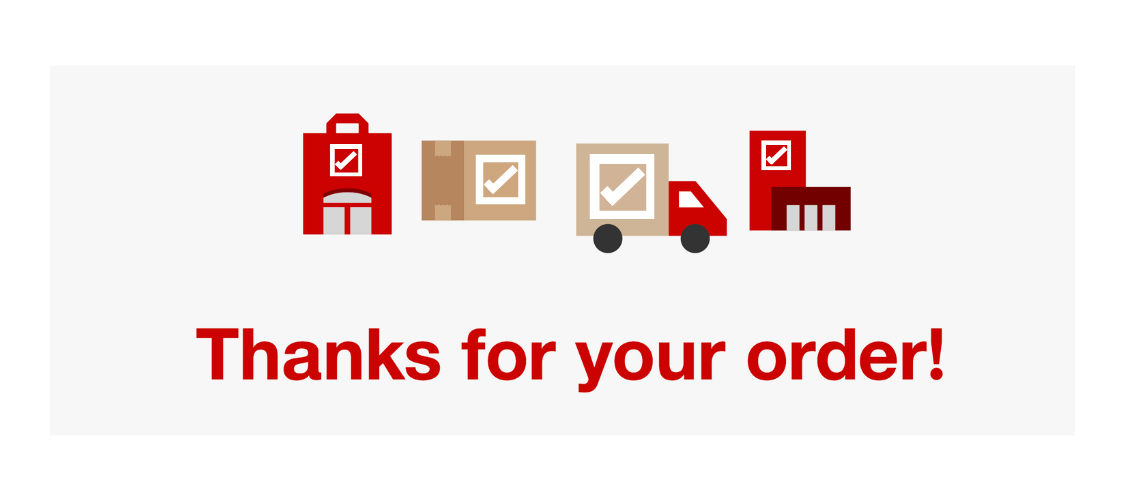
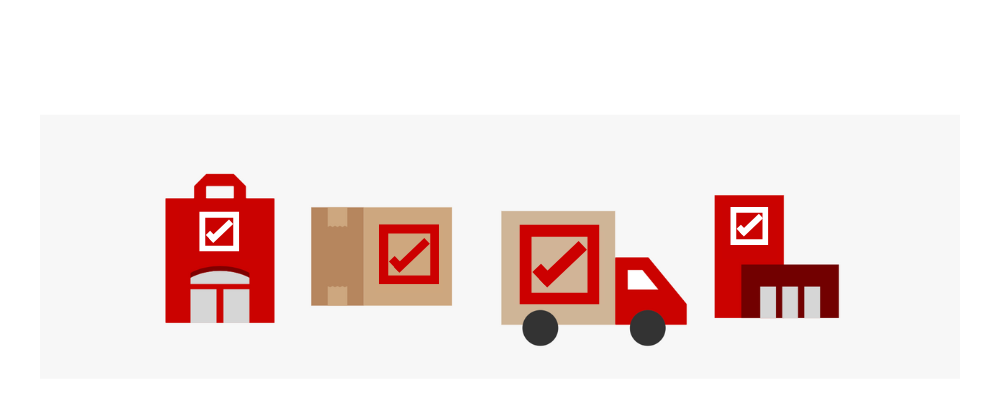
Images

Changed region(s): [[0.155, 0.21, 0.837, 0.87]]

diff --git a/frontend/src/components/Orders/OrderConfirmation/index.js b/frontend/src/components/Orders/OrderConfirmation/index.js
@@ -7,6 +7,9 @@ import { normalizeArray } from "../../../component-resources";
 import { thunkReadAllUserOrders } from "../../../store/ordersReducer";
 // local files
 import "./OrderConfirmation.css"
+import thanksImage from "../../../images/branding/market-order-confirmation-image.png";
+import buildingImage from "../../../images/branding/market-building-image.png";
+
 
 /******************************* COMPONENT *******************************/
 function OrderConfirmation() {
@@ -36,6 +39,7 @@ function OrderConfirmation() {
         <div id="OrderConfirmation-component">
 
             <div className="OrderConfirmation-title">
+              <img  src={thanksImage} id="thanksImage"></img>
               <h1>Thanks for your order!</h1>
               <p>We’ll send confirmations and order updates to <span>{user.email}</span></p>
             </div>
@@ -61,6 +65,9 @@ function OrderConfirmation() {
 
         <div className="OrderConfirmation-redirect-section">
           <div>
+            <div>
+              <img src={buildingImage} id="building-image"></img>
+            </div>
             <button
               className='OrderConfirmation-redirect-button'
               id='OrderConfirmation-redirect-button'

diff --git a/frontend/src/components/Cart/UserCart/index.js b/frontend/src/components/Cart/UserCart/index.js
@@ -6,6 +6,7 @@ import { Link, NavLink, Redirect, useParams } from "react-router-dom";
 // local files
 import cartReducer, { thunkReadCart, thunkRemoveSingleProductFromCart } from "../../../store/cartReducer";
 import RemoveFromCart from "../RemoveFromCart";
+import emptyCartImage from "../../../images/branding/market-empty-cart.png";
 import "./UserCart.css"
 
 /******************************* COMPONENT *******************************/

diff --git a/frontend/src/components/Orders/OrderConfirmation/OrderConfirmation.css b/frontend/src/components/Orders/OrderConfirmation/OrderConfirmation.css
@@ -38,6 +38,9 @@
 .OrderConfirmation-title > h1 {
     font-size: 29px;
     color: rgb(204, 0, 0);
+    padding-top: 0px;
+    margin-top: 0px;
+
 }
 .OrderConfirmation-title > p > span {
     font-weight: 700;
@@ -97,7 +100,9 @@
 }
 
 
-
+#building-image {
+    width: 80px
+}
 .OrderConfirmation-redirect-button-container {
     display: flex;
     flex-direction: column;

diff --git a/frontend/src/components/Reviews/ReviewCreateForm/ReviewCreateForm.css b/frontend/src/components/Reviews/ReviewCreateForm/ReviewCreateForm.css
@@ -55,6 +55,9 @@
     margin-bottom: 8px;
     padding-bottom: 20px;
 }
+#thanksImage {
+    width: 400px;
+}
 .review-form-item {
     font-size: 29px;
     color: #333;
